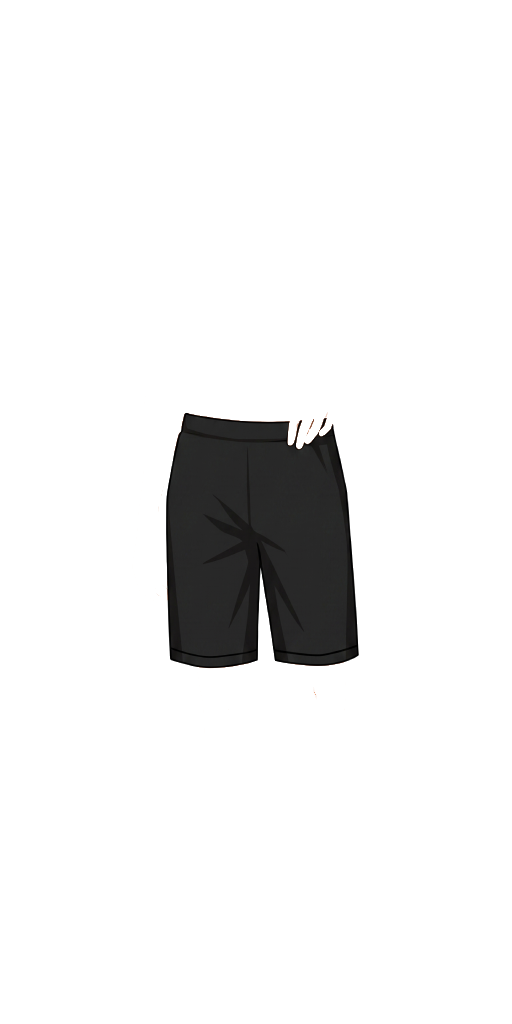
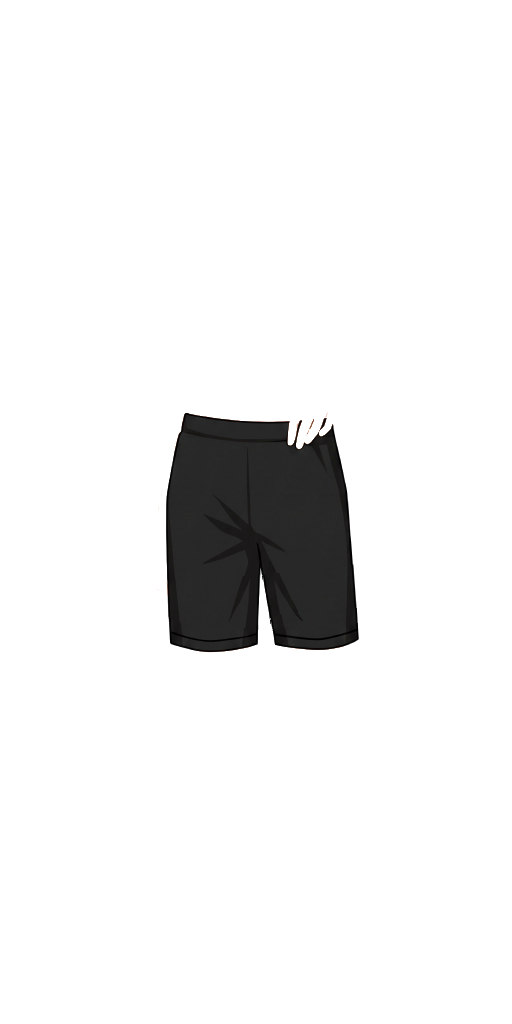
아이템 이미지 추가 및 수정

Changed region(s): [[0.5312, 0.5938, 0.7188, 0.6562], [0.3125, 0.625, 0.5, 0.6562], [0.5, 0.5625, 0.5312, 0.625]]

diff --git a/src/data/Items.js b/src/data/Items.js
@@ -237,7 +237,7 @@ export const ITEMS = [
 
   {
     id: "mg_bottom_201",
-    name: "민규 제주도 하의",
+    name: "민규 (제주도/나나투어) 하의",
     category: "bottom",
     image: "/item-img/mg_bottom_201.png",
   }, //조합템
@@ -253,12 +253,12 @@ export const ITEMS = [
     category: "bottom",
     image: "/item-img/mg_bottom_203.png",
   }, //조합템
-  {
-    id: "mg_bottom_204",
-    name: "민규 나나투어 하의",
-    category: "bottom",
-    image: "/item-img/mg_bottom_204.png",
-  }, //조합템
+  // {
+  //   id: "mg_bottom_204",
+  //   name: "민규 나나투어 하의",
+  //   category: "bottom",
+  //   image: "/item-img/mg_bottom_204.png",
+  // }, //조합템
   {
     id: "mg_bottom_205",
     name: "민규 15할로윈 하의",

diff --git a/src/data/ItemSet.js b/src/data/ItemSet.js
@@ -132,7 +132,7 @@ export const SET = [
     id: "set_4",
     requiredItems: [ //민규 신발,악세 x
       "jh_top_206",
-      "mg_bottom_204", "jh_bottom_204",
+      "mg_bottom_201", "jh_bottom_204",
       "jh_acc_05",
       "jh_acc_204",
       "jh_shoes_202",
